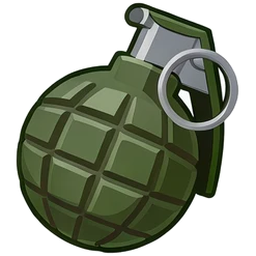
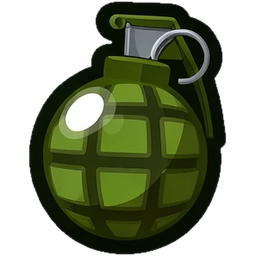
Zombie Bomber: replace the bombs with the new sheet, cut without white edges
New bomb art from the latest sheet. tools/cut_flood.py removes only the
background connected to the sheet's edge (so white highlights stay),
trims the light fringe around each item, and splits items that touch in
the sheet (the cluster bomb and aerial bomb). Hitboxes regenerated.
Also adds asset prompts for soldier upgrades, bullets, base stages and
a UI kit.

Claude-Session: https://claude.ai/code/session_014gobheM9XG1GV5X2tuF5zD

diff --git a/bomber/shapes.js b/bomber/shapes.js
@@ -1,2 +1,2 @@
 // Generated: convex outline of each sprite in 256x256 sprite pixels, used as its hitbox.
-const SHAPES = {"../assets/bomber/bombs/01_firecracker.png": [[97.5,37.5],[105.5,31.5],[167.5,6.5],[194.5,3.5],[217.5,11.5],[231.5,19.5],[231.5,34.5],[209.5,93.5],[160.5,190.5],[132.5,243.5],[115.5,253.5],[100.5,253.5],[72.5,246.5],[56.5,238.5],[32.5,217.5],[21.5,195.5],[22.5,184.5],[63.5,102.5]],"../assets/bomber/bombs/02_cherry_bomb.png": [[53.5,63.5],[112.5,33.5],[180.5,4.5],[201.5,2.5],[253.5,21.5],[198.5,183.5],[188.5,204.5],[170.5,226.5],[146.5,242.5],[117.5,251.5],[89.5,251.5],[64.5,244.5],[39.5,229.5],[17.5,204.5],[4.5,171.5],[2.5,144.5],[10.5,111.5],[24.5,88.5]],"../assets/bomber/bombs/03_grenade.png": [[130.5,4.5],[143.5,2.5],[211.5,29.5],[231.5,65.5],[238.5,85.5],[237.5,100.5],[215.5,194.5],[164.5,235.5],[142.5,247.5],[103.5,253.5],[77.5,247.5],[45.5,228.5],[32.5,214.5],[21.5,194.5],[16.5,170.5],[16.5,148.5],[27.5,112.5],[42.5,92.5]],"../assets/bomber/bombs/04_dynamite.png": [[21.5,169.5],[21.5,136.5],[35.5,100.5],[56.5,81.5],[152.5,3.5],[164.5,3.5],[225.5,30.5],[230.5,38.5],[234.5,102.5],[234.5,132.5],[224.5,173.5],[214.5,202.5],[165.5,240.5],[142.5,250.5],[107.5,253.5],[69.5,241.5],[44.5,221.5],[27.5,194.5]],"../assets/bomber/bombs/05_tnt.png": [[236.5,14.5],[232.5,155.5],[228.5,177.5],[214.5,206.5],[199.5,224.5],[167.5,245.5],[116.5,253.5],[75.5,241.5],[52.5,224.5],[27.5,189.5],[19.5,158.5],[19.5,134.5],[34.5,90.5],[55.5,65.5],[73.5,52.5],[139.5,21.5],[214.5,3.5],[232.5,2.5]],"../assets/bomber/bombs/06_cluster_bomb.png": [[239.5,11.5],[244.5,117.5],[244.5,125.5],[235.5,189.5],[224.5,206.5],[169.5,247.5],[156.5,253.5],[149.5,253.5],[77.5,244.5],[61.5,234.5],[12.5,163.5],[11.5,151.5],[24.5,83.5],[29.5,73.5],[37.5,65.5],[90.5,28.5],[100.5,24.5],[231.5,2.5]],"../assets/bomber/bombs/07_aerial_bomb.png": [[19.5,157.5],[23.5,137.5],[31.5,119.5],[43.5,102.5],[134.5,3.5],[143.5,3.5],[218.5,36.5],[235.5,65.5],[192.5,189.5],[177.5,217.5],[161.5,233.5],[128.5,249.5],[105.5,253.5],[79.5,251.5],[60.5,243.5],[46.5,233.5],[33.5,218.5],[21.5,187.5]],"../assets/bomber/bombs/08_napalm.png": [[239.5,62.5],[204.5,182.5],[190.5,212.5],[165.5,237.5],[143.5,248.5],[120.5,253.5],[103.5,253.5],[76.5,247.5],[50.5,232.5],[37.5,219.5],[20.5,189.5],[15.5,166.5],[19.5,128.5],[30.5,105.5],[46.5,86.5],[139.5,3.5],[149.5,2.5],[222.5,35.5]],"../assets/bomber/bombs/09_bunker_buster.png": [[236.5,10.5],[233.5,152.5],[218.5,200.5],[195.5,227.5],[173.5,242.5],[138.5,253.5],[113.5,253.5],[81.5,244.5],[43.5,216.5],[24.5,185.5],[18.5,161.5],[18.5,133.5],[24.5,107.5],[37.5,83.5],[55.5,64.5],[79.5,49.5],[141.5,20.5],[213.5,3.5]],"../assets/bomber/bombs/10_thermobaric.png": [[238.5,15.5],[231.5,153.5],[223.5,186.5],[212.5,206.5],[192.5,228.5],[155.5,248.5],[117.5,253.5],[88.5,247.5],[58.5,231.5],[42.5,216.5],[23.5,184.5],[17.5,154.5],[20.5,117.5],[31.5,91.5],[55.5,62.5],[72.5,51.5],[138.5,19.5],[224.5,2.5]],"../assets/bomber/bombs/11_mega_nuke.png": [[239.5,15.5],[229.5,160.5],[213.5,205.5],[190.5,230.5],[169.5,243.5],[134.5,253.5],[108.5,253.5],[63.5,236.5],[46.5,222.5],[23.5,187.5],[16.5,158.5],[16.5,134.5],[29.5,92.5],[49.5,67.5],[68.5,52.5],[140.5,18.5],[218.5,2.5],[233.5,2.5]],"../assets/bomber/bombs/12_black_hole.png": [[198.5,36.5],[208.5,124.5],[205.5,162.5],[194.5,185.5],[174.5,206.5],[144.5,220.5],[118.5,222.5],[85.5,214.5],[68.5,203.5],[53.5,186.5],[44.5,169.5],[38.5,128.5],[44.5,104.5],[56.5,83.5],[69.5,70.5],[94.5,55.5],[143.5,36.5],[191.5,33.5]]};
+const SHAPES = {"../assets/bomber/bombs/01_firecracker.png": [[105.5,48.5],[147.5,21.5],[189.5,2.5],[205.5,12.5],[224.5,144.5],[224.5,169.5],[218.5,192.5],[205.5,216.5],[185.5,236.5],[167.5,246.5],[138.5,253.5],[115.5,253.5],[85.5,245.5],[50.5,216.5],[36.5,190.5],[31.5,145.5],[38.5,120.5],[53.5,95.5]],"../assets/bomber/bombs/02_cherry_bomb.png": [[205.5,13.5],[224.5,147.5],[218.5,192.5],[200.5,222.5],[180.5,239.5],[151.5,251.5],[117.5,253.5],[96.5,249.5],[69.5,235.5],[54.5,221.5],[38.5,195.5],[31.5,171.5],[31.5,141.5],[37.5,120.5],[62.5,85.5],[104.5,48.5],[147.5,20.5],[185.5,2.5]],"../assets/bomber/bombs/03_grenade.png": [[43.5,105.5],[98.5,12.5],[106.5,4.5],[132.5,2.5],[175.5,4.5],[208.5,26.5],[221.5,51.5],[225.5,142.5],[213.5,195.5],[201.5,217.5],[183.5,235.5],[158.5,248.5],[115.5,253.5],[91.5,248.5],[70.5,237.5],[51.5,219.5],[32.5,181.5],[29.5,146.5]],"../assets/bomber/bombs/04_dynamite.png": [[229.5,144.5],[229.5,158.5],[221.5,221.5],[215.5,233.5],[203.5,240.5],[141.5,253.5],[113.5,253.5],[96.5,250.5],[54.5,238.5],[43.5,233.5],[35.5,221.5],[26.5,147.5],[36.5,74.5],[50.5,59.5],[148.5,13.5],[187.5,2.5],[192.5,5.5],[221.5,77.5]],"../assets/bomber/bombs/05_tnt.png": [[62.5,84.5],[106.5,46.5],[147.5,20.5],[185.5,2.5],[205.5,15.5],[224.5,142.5],[225.5,163.5],[213.5,204.5],[195.5,228.5],[179.5,240.5],[152.5,251.5],[114.5,253.5],[88.5,246.5],[63.5,231.5],[42.5,205.5],[29.5,165.5],[29.5,147.5],[43.5,106.5]],"../assets/bomber/bombs/06_cluster_bomb.png": [[204.5,11.5],[229.5,154.5],[229.5,167.5],[199.5,234.5],[183.5,246.5],[139.5,253.5],[116.5,253.5],[102.5,251.5],[61.5,239.5],[55.5,232.5],[36.5,194.5],[26.5,162.5],[31.5,132.5],[35.5,119.5],[51.5,85.5],[61.5,73.5],[146.5,20.5],[184.5,2.5]],"../assets/bomber/bombs/07_aerial_bomb.png": [[146.5,20.5],[185.5,2.5],[206.5,13.5],[220.5,102.5],[225.5,140.5],[225.5,171.5],[215.5,221.5],[210.5,230.5],[197.5,238.5],[156.5,250.5],[139.5,253.5],[102.5,251.5],[56.5,240.5],[40.5,225.5],[30.5,175.5],[30.5,138.5],[38.5,98.5],[49.5,82.5]],"../assets/bomber/bombs/08_napalm.png": [[61.5,84.5],[106.5,46.5],[145.5,21.5],[185.5,2.5],[205.5,14.5],[224.5,143.5],[225.5,163.5],[219.5,190.5],[208.5,212.5],[177.5,241.5],[152.5,251.5],[114.5,253.5],[88.5,246.5],[63.5,231.5],[37.5,196.5],[29.5,167.5],[30.5,138.5],[44.5,103.5]],"../assets/bomber/bombs/09_bunker_buster.png": [[224.5,145.5],[221.5,185.5],[201.5,221.5],[179.5,240.5],[152.5,251.5],[113.5,253.5],[88.5,246.5],[71.5,237.5],[53.5,221.5],[32.5,181.5],[29.5,149.5],[35.5,123.5],[48.5,99.5],[59.5,87.5],[106.5,47.5],[146.5,21.5],[184.5,2.5],[204.5,14.5]],"../assets/bomber/bombs/10_thermobaric.png": [[205.5,12.5],[225.5,148.5],[221.5,187.5],[213.5,205.5],[194.5,230.5],[178.5,241.5],[142.5,253.5],[114.5,253.5],[88.5,246.5],[65.5,232.5],[43.5,206.5],[34.5,185.5],[30.5,149.5],[42.5,110.5],[65.5,82.5],[106.5,47.5],[145.5,22.5],[188.5,2.5]],"../assets/bomber/bombs/11_mega_nuke.png": [[206.5,13.5],[225.5,147.5],[225.5,168.5],[210.5,210.5],[177.5,241.5],[150.5,251.5],[119.5,253.5],[89.5,246.5],[69.5,235.5],[47.5,212.5],[34.5,186.5],[30.5,149.5],[34.5,128.5],[45.5,104.5],[65.5,82.5],[108.5,46.5],[144.5,23.5],[187.5,2.5]],"../assets/bomber/bombs/12_black_hole.png": [[205.5,12.5],[225.5,146.5],[225.5,168.5],[211.5,208.5],[191.5,232.5],[167.5,246.5],[139.5,253.5],[114.5,253.5],[88.5,246.5],[61.5,229.5],[38.5,196.5],[30.5,168.5],[34.5,128.5],[50.5,97.5],[66.5,81.5],[106.5,47.5],[148.5,20.5],[188.5,2.5]]};

diff --git a/tools/cut_flood.py b/tools/cut_flood.py
@@ -1,0 +1,54 @@
+# Cut the N biggest items from a sheet on a white background into 256x256 transparent PNGs.
+# Background = near-white pixels connected to the sheet's edge (so white highlights inside items stay).
+# The item edge is trimmed by a pixel and softened, so no light fringe from the background is left.
+# Usage: python3 tools/cut_flood.py sheet out_dir name1,name2,...   (items in reading order)
+import sys
+import numpy as np
+from PIL import Image, ImageFilter
+from scipy import ndimage
+
+src, out, names = sys.argv[1], sys.argv[2], sys.argv[3].split(',')
+a = np.array(Image.open(src).convert('RGB'))
+ai = a.astype(int)
+light = (ai.min(axis=2) > 215) & ((ai.max(axis=2) - ai.min(axis=2)) < 35)
+lab, _ = ndimage.label(light)
+edge = set(np.unique(np.concatenate([lab[0], lab[-1], lab[:, 0], lab[:, -1]]))) - {0}
+obj = ~np.isin(lab, list(edge))
+obj = ndimage.binary_opening(obj, iterations=1)          # drop specks of noise
+joined = ndimage.binary_dilation(obj, iterations=2)   # join sparkles to their item
+# items that touch in the sheet: split any piece much wider than the others at its thinnest column
+for _ in range(len(names)):
+    items_lab, n = ndimage.label(joined)
+    sizes = ndimage.sum(obj, items_lab, range(1, n + 1))
+    big = sorted(range(1, n + 1), key=lambda i: -sizes[i - 1])[:len(names)]
+    boxes = {i: ndimage.find_objects(items_lab)[i - 1] for i in big}
+    widths = sorted(boxes[i][1].stop - boxes[i][1].start for i in big)
+    median = widths[len(widths) // 2]
+    wide = [i for i in big if boxes[i][1].stop - boxes[i][1].start > 1.6 * median]
+    if not wide: break
+    for i in wide:
+        ys, xs = boxes[i]
+        cols = (obj[ys, xs] & (items_lab[ys, xs] == i)).sum(axis=0)
+        w = len(cols); lo, hi = int(w * 0.3), int(w * 0.7)
+        cut = xs.start + lo + int(np.argmin(cols[lo:hi]))
+        joined[ys, cut - 1:cut + 2] = False
+items_lab, n = ndimage.label(joined)
+sizes = ndimage.sum(obj, items_lab, range(1, n + 1))
+keep = sorted(range(1, n + 1), key=lambda i: -sizes[i - 1])[:len(names)]
+boxes = {i: ndimage.find_objects(items_lab)[i - 1] for i in keep}
+# reading order: rows by top edge, then left to right
+keep.sort(key=lambda i: boxes[i][0].start)
+rows = []
+for i in keep:
+    if rows and boxes[i][0].start < boxes[rows[-1][0]][0].stop - 40: rows[-1].append(i)
+    else: rows.append([i])
+keep = [i for r in rows for i in sorted(r, key=lambda i: boxes[i][1].start)]
+for k, i in enumerate(keep):
+    m = obj & (items_lab == i)
+    m = ndimage.binary_erosion(m, iterations=1)
+    alpha = np.array(Image.fromarray(m.astype(np.uint8) * 255).filter(ImageFilter.GaussianBlur(0.7)))
+    img = Image.fromarray(np.dstack([a, alpha]), 'RGBA').crop(Image.fromarray(alpha).getbbox())
+    s = max(img.size); sq = Image.new('RGBA', (s, s), (0, 0, 0, 0))
+    sq.paste(img, ((s - img.width) // 2, (s - img.height) // 2))
+    sq.resize((256, 256), Image.LANCZOS).save(f'{out}/{k + 1:02d}_{names[k]}.png', optimize=True)
+    print(k + 1, names[k], img.size)

diff --git a/bomber/ASSET_PROMPTS.md b/bomber/ASSET_PROMPTS.md
@@ -105,3 +105,70 @@ ITEMS, from junk to treasure:
 
 AVOID: text, numbers, logos, grid lines, shadows or glows on the background, realistic style, items touching, items cut off.
 ```
+
+## 8. Soldier upgrades (4 looks)
+
+The soldiers change look as you unlock Armory upgrades (starting soldier → faster shooting → double damage → +2 soldiers).
+
+```
+A sprite sheet of 4 cartoon soldiers for a mobile game, in one row of 4 on a plain pure white background, each separate with clear space around it, all the same height. Every soldier is shown full body from the SIDE, facing RIGHT, aiming their weapon to the right.
+
+STYLE: chunky cute proportions with big heads, glossy saturated candy colors, thick soft outlines in a darker shade of each color, big shiny highlights, brave determined faces. Clean premium mobile-game art. Each soldier clearly looks stronger than the one before.
+
+1. Rifleman: olive-green uniform, round army helmet, simple rifle
+2. Machine gunner: darker green vest with ammo belts across the chest, headset, chunky machine gun
+3. Heavy gunner: bulky armor vest and shoulder pads, visor helmet, big minigun with glowing barrels
+4. Elite commando: black and gold armor, red beret, glowing blue energy rifle, small cape
+
+AVOID: text, numbers, logos, background, shadows on the background, blood, items touching.
+```
+
+## 9. Bullets (4 types, one per soldier look)
+
+```
+A sprite sheet of 4 cartoon projectiles for a mobile game, in one row of 4 on a plain pure white background, each separate with lots of space around it. All are drawn horizontal, flying to the RIGHT, with a short trail behind them.
+
+STYLE: glossy saturated candy style, thick soft outlines, big shiny highlights, each one bigger and flashier than the one before.
+
+1. Small golden rifle bullet with a short yellow trail
+2. Orange glowing tracer round with a longer streak
+3. Fat red-hot heavy shell with a fiery trail
+4. Blue energy plasma bolt with a crackling cyan glow
+
+AVOID: text, background, shadows on the background, items touching.
+```
+
+## 10. Base (4 stages)
+
+The base grows as you unlock base HP upgrades.
+
+```
+A sprite sheet of 4 cartoon military base defenses for a mobile game, in one row of 4 on a plain pure white background, each separate with clear space around it, all drawn from the SIDE, standing on a flat bottom edge. Each stage is clearly bigger and stronger than the one before.
+
+STYLE: chunky cute cartoon, glossy saturated colors, thick soft outlines, big shiny highlights, clean premium mobile-game art. No people.
+
+1. Small wooden watchtower on stilts with a green flag, and a little pile of sandbags in front
+2. Sandbag bunker with a wooden lookout tower, camouflage net and a flag
+3. Concrete fort with a short tower, metal plates, hazard stripes and spotlights
+4. Steel fortress with a tall armored tower, glowing lights, satellite dish and a big flag
+
+AVOID: text, numbers, logos, people, background scenery, shadows on the background, items touching.
+```
+
+## 11. UI kit
+
+```
+A mobile game UI kit sheet on a plain pure white background, every element separate with clear space around it, nothing touching. Military-candy style matching a cartoon zombie game: glossy saturated colors, thick soft dark outlines, big shiny highlights, chunky rounded shapes.
+
+Include:
+- 4 big rounded buttons with no text: green, orange, red, purple
+- 1 round "play" button with a white triangle
+- Square icon buttons: sound on (speaker), sound off (speaker with X), city skyline icon, pause icon
+- Icons: gift box (loot), gold star (upgrades), red heart (base health), green zombie head, bomb, gold coin, trophy, lock
+- An empty horizontal health bar frame and a separate green fill bar
+- An empty horizontal timer bar frame and a separate orange fill bar
+- An empty ribbon banner (for titles like "LEVEL 1"), red with gold edges
+- An empty rounded panel frame (dark purple with a metal riveted border)
+
+AVOID: any text or letters, numbers, logos, background, shadows on the background, elements touching.
+```
